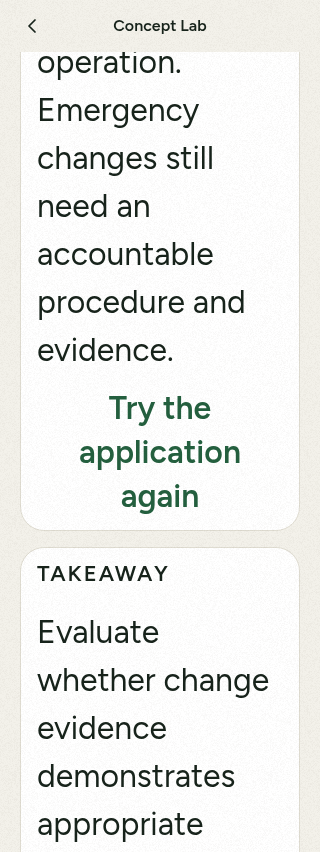
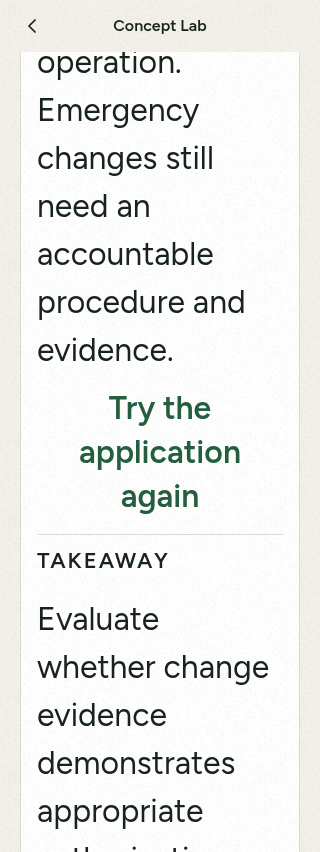
Keep each expanded lab stage in the shared topic card

Changed region(s): [[0.0625, 0.6408, 0.8438, 1.0], [0.9062, 0.6408, 0.9375, 0.6714]]

diff --git a/mobile/src/components/conceptLabExpansion.tsx b/mobile/src/components/conceptLabExpansion.tsx
@@ -17,7 +17,8 @@ import { openSessionFromStack } from '../lib/actions';
 import { space } from '../theme/tokens';
 import { useTheme } from '../theme/useTheme';
 import { Button, PushedHeader, Screen, T } from './ui';
-import { CardHead, HubCard, PageTitle } from './groveHub';
+import { CardHead, CardDivider, PageTitle } from './groveHub';
+import { TopicCard } from './topicCard';
 import { LabChoice } from './conceptLab';
 
 const stages = ['Explore', 'Experiment', 'Apply'] as const;
@@ -44,51 +45,53 @@ export function ExpansionLabScreen({ lab }: { lab: ExpansionLab }) {
     <View style={{ flexDirection: 'row', flexWrap: 'wrap', gap: space.xs, marginVertical: space.lg }}>
       {stages.map((name, i) => <Button key={name} kind="ghost" label={`${i + 1}. ${name}`} selected={stage === i} onPress={() => setStage(i)} />)}
     </View>
-    <View style={{ gap: space.lg }}>
-      <View ref={heading} accessible accessibilityRole="header" accessibilityLabel={`Part ${stage + 1} of 3. ${stages[stage]}`}><T v="title">{`Part ${stage + 1} · ${stages[stage]}`}</T></View>
-      {stage === 0 && <>
-        <T v="body">{lab.objective}</T>
-        {lab.explore.map(p => <T key={p} v="body">{p}</T>)}
-        <Panel title="Your workplace scenario"><T v="body">{lab.scenario}</T>{lab.interaction === 'authority-mapping' && <T v="label">Flawed draft assignments — correct these in Experiment</T>}<ModelPreview lab={lab} /></Panel>
-      </>}
-      {/* Keep the experiment mounted across stages so a learner can compare their decisions. */}
-      <View style={{ display: stage === 1 ? 'flex' : 'none', gap: space.lg }}>
-        <Panel title="Your challenge"><T v="body">{lab.challenge}</T></Panel>
-        <Experiment key={`${lab.id}:${attempt}`} lab={lab} />
-        <Button kind="ghost" label="Reset scenario" onPress={() => { setAttempt(n => n + 1); sayLater('Scenario reset to its starting conditions.'); }} />
+    <TopicCard testID="lab-topic-card">
+      <View style={{ gap: space.lg }}>
+        <View ref={heading} accessible accessibilityRole="header" accessibilityLabel={`Part ${stage + 1} of 3. ${stages[stage]}`}><T v="title">{`Part ${stage + 1} · ${stages[stage]}`}</T></View>
+        {stage === 0 && <>
+          <T v="body">{lab.objective}</T>
+          {lab.explore.map(p => <T key={p} v="body">{p}</T>)}
+          <Section title="Your workplace scenario"><T v="body">{lab.scenario}</T>{lab.interaction === 'authority-mapping' && <T v="label">Flawed draft assignments — correct these in Experiment</T>}<ModelPreview lab={lab} /></Section>
+        </>}
+        {/* Keep the experiment mounted across stages so a learner can compare their decisions. */}
+        <View style={{ display: stage === 1 ? 'flex' : 'none', gap: space.lg }}>
+          <Section title="Your challenge"><T v="body">{lab.challenge}</T></Section>
+          <Experiment key={`${lab.id}:${attempt}`} lab={lab} />
+          <Button kind="ghost" label="Reset scenario" onPress={() => { setAttempt(n => n + 1); sayLater('Scenario reset to its starting conditions.'); }} />
+        </View>
+        {stage === 2 && <>
+          <T v="body">{lab.apply.scenario}</T>
+          {lab.apply.options.map((option, i) => <LabChoice key={option.text} text={option.text} selected={answer === i} onPress={() => { setAnswer(i); setChecked(false); }} />)}
+          <Button label="Check reasoning" disabled={answer === null} onPress={() => { setChecked(true); if (answer !== null) sayLater(lab.apply.options[answer].feedback); }} />
+          {checked && answer !== null && <Section title={answer === lab.apply.correctIndex ? 'Reasoning supported' : 'Review the evidence'}>
+            <T v="body">{lab.apply.options[answer].feedback}</T>
+            <Button kind="ghost" label="Try the application again" onPress={() => { setAnswer(null); setChecked(false); }} />
+          </Section>}
+          <Section title="Takeaway"><T v="body">{lab.takeaway}</T><T v="meta">Lab exploration does not record a practice answer, change readiness or complete a lesson.</T></Section>
+          <T v="title" accessibilityRole="header">Keep exploring</T>
+          {lesson?.certId === lab.certId && <Button kind="secondary" label="Read the related lesson" onPress={() => router.push(`/lesson/${lab.lessonId}`)} />}
+          {note && <Button kind="secondary" label="Open the related study note" onPress={() => router.push(`/notes/subtopic/${lab.noteId}`)} />}
+          {principles.map(p => <Button key={p.id} kind="secondary" label={`Read principle: ${p.title}`} onPress={() => router.push(`/principles/${p.id}`)} />)}
+          {practice.length > 0 && <Button kind="secondary" label="Practice this concept" accessibilityHint="Optional practice using existing questions. Answers count toward progress." onPress={() => guardedStart(() => startFromIds(lab.certId, practice, lab.title), openSessionFromStack)} />}
+          {lab.interaction === 'dependency-simulation' && <Button kind="secondary" label="Explore RTO versus RPO" onPress={() => router.push('/labs/cisa-lab-rto-rpo')} />}
+          <T v="meta">{`Original KaiSip scenario. Content review: ${lab.lastReviewed}. Source references:`}</T>
+          {lab.references.map(r => <T key={r.url} v="meta">{`${r.title}\n${r.section}\n${r.url}`}</T>)}
+        </>}
+        {stage < 2 && <Button label={stage === 0 ? 'Try the experiment' : 'Apply your judgment'} onPress={() => setStage(stage + 1)} />}
       </View>
-      {stage === 2 && <>
-        <T v="body">{lab.apply.scenario}</T>
-        {lab.apply.options.map((option, i) => <LabChoice key={option.text} text={option.text} selected={answer === i} onPress={() => { setAnswer(i); setChecked(false); }} />)}
-        <Button label="Check reasoning" disabled={answer === null} onPress={() => { setChecked(true); if (answer !== null) sayLater(lab.apply.options[answer].feedback); }} />
-        {checked && answer !== null && <Panel title={answer === lab.apply.correctIndex ? 'Reasoning supported' : 'Review the evidence'}>
-          <T v="body">{lab.apply.options[answer].feedback}</T>
-          <Button kind="ghost" label="Try the application again" onPress={() => { setAnswer(null); setChecked(false); }} />
-        </Panel>}
-        <Panel title="Takeaway"><T v="body">{lab.takeaway}</T><T v="meta">Lab exploration does not record a practice answer, change readiness or complete a lesson.</T></Panel>
-        <T v="title" accessibilityRole="header">Keep exploring</T>
-        {lesson?.certId === lab.certId && <Button kind="secondary" label="Read the related lesson" onPress={() => router.push(`/lesson/${lab.lessonId}`)} />}
-        {note && <Button kind="secondary" label="Open the related study note" onPress={() => router.push(`/notes/subtopic/${lab.noteId}`)} />}
-        {principles.map(p => <Button key={p.id} kind="secondary" label={`Read principle: ${p.title}`} onPress={() => router.push(`/principles/${p.id}`)} />)}
-        {practice.length > 0 && <Button kind="secondary" label="Practice this concept" accessibilityHint="Optional practice using existing questions. Answers count toward progress." onPress={() => guardedStart(() => startFromIds(lab.certId, practice, lab.title), openSessionFromStack)} />}
-        {lab.interaction === 'dependency-simulation' && <Button kind="secondary" label="Explore RTO versus RPO" onPress={() => router.push('/labs/cisa-lab-rto-rpo')} />}
-        <T v="meta">{`Original KaiSip scenario. Content review: ${lab.lastReviewed}. Source references:`}</T>
-        {lab.references.map(r => <T key={r.url} v="meta">{`${r.title}\n${r.section}\n${r.url}`}</T>)}
-      </>}
-      {stage < 2 && <Button label={stage === 0 ? 'Try the experiment' : 'Apply your judgment'} onPress={() => setStage(stage + 1)} />}
-    </View>
+    </TopicCard>
   </Screen>;
 }
 
-function Panel({ title, children }: { title: string; children: ReactNode }) {
-  return <HubCard style={{ gap: space.md, paddingBottom: space.md }}><CardHead title={title} />{children}</HubCard>;
+function Section({ title, children }: { title: string; children: ReactNode }) {
+  return <View style={{ gap: space.md }}><CardDivider /><CardHead title={title} />{children}</View>;
 }
 function Feedback({ summary, findings }: { summary: string; findings: readonly string[] }) {
-  return <Panel title="What your decisions change">
+  return <Section title="What your decisions change">
     <View testID="expansion-outcome" accessibilityLiveRegion="polite" style={stack}><T v="label">{summary}</T>
       {findings.map((f, i) => <T key={`${i}:${f}`} v="body">{f}</T>)}
     </View>
-  </Panel>;
+  </Section>;
 }
 function NumberControl({ label, value, min = 0, max, step = 1, onChange, unit = '' }: { label: string; value: number; min?: number; max: number; step?: number; unit?: string; onChange: (value: number) => void }) {
   return <View style={stack}>
@@ -138,11 +141,11 @@ function Roles({ config }: { config: RoleConfig }) {
   const result = evaluateRoles(assignments, review, config);
   return <View style={{ gap: space.lg }}>
     <Feedback {...result} />
-    <Panel title="Assign purchasing duties">
+    <Section title="Assign purchasing duties">
       {config.duties.map((d, i) => <Assignment key={d} label={d} choices={config.people} value={assignments[i]} onChange={value => setAssignments(a => a.map((old, j) => j === i ? value : old))} />)}
       <Toggle label="Add an independent detective review" value={review} onChange={setReview} />
       <T v="meta">The assigned transaction reviewer examines exception reports and supporting evidence. To be independent, that person must have no other purchasing duty. Detective review may reduce exposure; it does not prevent the transaction.</T>
-    </Panel>
+    </Section>
   </View>;
 }
 function Risk({ config }: { config: RiskConfig }) {
@@ -153,23 +156,23 @@ function Risk({ config }: { config: RiskConfig }) {
   const result = evaluateRisk(areas, selected, budget);
   return <View style={{ gap: space.lg }}>
     <Feedback {...result} />
-    <Panel title="Your audit resources"><NumberControl label="Available audit hours" value={budget} max={200} step={10} unit="hours" onChange={setBudget} /><T v="meta">Educational scoring model: compare assumptions and mandatory coverage as well as scores. Selection proposes a plan; the charter-designated authority must approve the plan.</T><T v="label">{`${result.hours} / ${budget} hours allocated`}</T></Panel>
-    {areas.map((a, i) => <Panel key={a.name} title={a.name}>
+    <Section title="Your audit resources"><NumberControl label="Available audit hours" value={budget} max={200} step={10} unit="hours" onChange={setBudget} /><T v="meta">Educational scoring model: compare assumptions and mandatory coverage as well as scores. Selection proposes a plan; the charter-designated authority must approve the plan.</T><T v="label">{`${result.hours} / ${budget} hours allocated`}</T></Section>
+    {areas.map((a, i) => <Section key={a.name} title={a.name}>
       <T v="label">{`Educational priority: ${result.scores[i]} · Cost: ${a.hours} hours`}</T>
       <Toggle label={`Include ${a.name}`} value={selected[i]} onChange={value => setSelected(s => s.map((old, j) => j === i ? value : old))} />
       <Button kind="ghost" label={`Adjust ${a.name} assumptions`} expanded={editing === i} onPress={() => setEditing(old => old === i ? null : i)} />
       {editing === i && (['impact', 'likelihood', 'control', 'incidents'] as const).map(key => <NumberControl key={key} label={`${a.name} ${key === 'control' ? 'control effectiveness' : key === 'incidents' ? 'prior incidents' : key === 'impact' ? 'business impact' : 'threat likelihood'}`} value={a[key]} min={key === 'incidents' || key === 'control' ? 0 : 1} max={key === 'control' ? 4 : 5} onChange={value => setAreas(old => old.map((area, j) => j === i ? { ...area, [key]: value } : area))} />)}
       <Toggle label={`Mandatory coverage for ${a.name}`} value={a.mandatory} onChange={value => setAreas(old => old.map((area, j) => j === i ? { ...area, mandatory: value } : area))} />
-    </Panel>)}
+    </Section>)}
   </View>;
 }
 function Authority({ config }: { config: AuthorityConfig }) {
   const [assignments, setAssignments] = useState(() => [...config.initialAssignments]);
   const result = evaluateAuthority(assignments, config);
-  return <View style={{ gap: space.lg }}><Feedback {...result} /><Panel title="Map decision authority">
+  return <View style={{ gap: space.lg }}><Feedback {...result} /><Section title="Map decision authority">
     <T v="meta">Use this fictional company’s stated governance structure. Other organizations may delegate authority differently.</T>
     {config.decisions.map((d, i) => <Assignment key={d.label} label={d.label} choices={config.roles} value={assignments[i]} onChange={value => setAssignments(a => a.map((old, j) => j === i ? value : old))} />)}
-  </Panel></View>;
+  </Section></View>;
 }
 function Workflow({ config }: { config: WorkflowConfig }) {
   const [order, setOrder] = useState(() => [...config.initialOrder]);
@@ -180,8 +183,8 @@ function Workflow({ config }: { config: WorkflowConfig }) {
   }
   return <View style={{ gap: space.lg }}>
     <Feedback {...result} />
-    <Panel title="Choose the change procedure"><Toggle label="Use the documented emergency procedure" value={emergency} onChange={setEmergency} /><T v="meta">Move steps with the buttons; dragging is not required. Emergency handling can defer selected normal steps, with appropriate emergency authorization and subsequent review.</T></Panel>
-    <Panel title="Enabled workflow">
+    <Section title="Choose the change procedure"><Toggle label="Use the documented emergency procedure" value={emergency} onChange={setEmergency} /><T v="meta">Move steps with the buttons; dragging is not required. Emergency handling can defer selected normal steps, with appropriate emergency authorization and subsequent review.</T></Section>
+    <Section title="Enabled workflow">
       {order.map((id, i) => <View key={id} style={stack}>
         <T v="label">{`${i + 1}. ${config.steps[id]}`}</T>
         <View style={{ flexDirection: 'row', flexWrap: 'wrap', gap: space.sm }}>
@@ -192,7 +195,7 @@ function Workflow({ config }: { config: WorkflowConfig }) {
       </View>)}
       {!order.length && <T v="body">No steps enabled. Add a step below.</T>}
       {config.steps.map((step, i) => !order.includes(i) && <Button key={step} kind="secondary" label={`Add ${step}`} onPress={() => setOrder(old => [...old, i])} />)}
-    </Panel>
+    </Section>
   </View>;
 }
 function Dependencies({ config }: { config: DependencyConfig }) {
@@ -203,21 +206,21 @@ function Dependencies({ config }: { config: DependencyConfig }) {
   const result = evaluateDependencies(processes, restored, budget, duration, config);
   return <View style={{ gap: space.lg }}>
     <Feedback {...result} />
-    <Panel title="Illustrative recovery priority"><T v="body">{result.priorityOrder.map((index, rank) => `${rank + 1}. ${processes[index].name}`).join("\n")}</T><T v="meta">Criticality first, then modeled unserved financial exposure. Document business judgment, safety obligations and shared dependencies before deciding.</T></Panel>
-    <Panel title="Outage and recovery resources">
+    <Section title="Illustrative recovery priority"><T v="body">{result.priorityOrder.map((index, rank) => `${rank + 1}. ${processes[index].name}`).join("\n")}</T><T v="meta">Criticality first, then modeled unserved financial exposure. Document business judgment, safety obligations and shared dependencies before deciding.</T></Section>
+    <Section title="Outage and recovery resources">
       <NumberControl label="Interruption duration" value={duration} min={1} max={24} unit="hours" onChange={setDuration} />
       <NumberControl label="Recovery resource budget" value={budget} max={20} unit="units" onChange={setBudget} />
       <T v="label">{`${result.cost} / ${budget} resource units selected`}</T>
       <T v="meta">Compare a prospective period of disruption. A recovered service has zero unserved exposure for that period; recovery does not erase losses already incurred.</T>
       {config.systems.map((s, i) => <Toggle key={s.name} label={`Recover ${s.name} (${s.cost} units)`} value={restored[i]} onChange={value => setRestored(old => old.map((v, j) => j === i ? value : v))} />)}
-    </Panel>
-    {processes.map((p, i) => <Panel key={p.name} title={p.name}>
+    </Section>
+    {processes.map((p, i) => <Section key={p.name} title={p.name}>
       <T v="label">{result.available[i] ? 'Dependencies ready' : 'Waiting for dependencies'}</T>
       <T v="body">{`Prospective unserved exposure: $${result.impacts[i].toLocaleString()} for the next ${duration} hours under this recovery selection.`}</T>
       <NumberControl label={`${p.name} operational criticality`} value={p.criticality} min={1} max={5} onChange={value => setProcesses(old => old.map((v, j) => j === i ? { ...v, criticality: value } : v))} />
       <NumberControl label={`${p.name} hourly financial impact`} value={p.hourlyLoss} max={10000} step={500} unit="dollars" onChange={value => setProcesses(old => old.map((v, j) => j === i ? { ...v, hourlyLoss: value } : v))} />
       <T v="meta">Required supporting systems (keep at least one; all selected dependencies must be restored):</T>
       {config.systems.map((s, index) => <Toggle key={s.name} label={`${p.name} needs ${s.name}`} value={p.dependencies.includes(index)} onChange={value => { if (!value && p.dependencies.length === 1) { sayLater('Keep at least one supporting system. Add another dependency before removing this one.'); return; } setProcesses(old => old.map((v, j) => j === i ? { ...v, dependencies: value ? [...v.dependencies, index] : v.dependencies.filter(d => d !== index) } : v)); }} />)}
-    </Panel>)}
+    </Section>)}
   </View>;
 }

diff --git a/mobile/src/__tests__/conceptLabExpansion-screens.test.tsx b/mobile/src/__tests__/conceptLabExpansion-screens.test.tsx
@@ -3,6 +3,8 @@ import { act, create, type ReactTestInstance, type ReactTestRenderer } from 'rea
 import { Dimensions } from 'react-native';
 import { router } from 'expo-router';
 import LabDetail from '../app/labs/[id]';
+import { TopicCard } from '../components/topicCard';
+import { HubCard } from '../components/groveHub';
 import { useSettings } from '../store/settings';
 import { useProgress } from '../store/progress';
 import { useSession } from '../store/session';
@@ -125,4 +127,26 @@ it('dependency controls keep at least one supporting system and explain the cons
   for (const system of process.dependencies) press(`✓ ${process.name} needs ${lab.config.systems[system].name}`);
   expect(text()).toMatch(/keep at least one/i);
   expect(outcome().length).toBeGreaterThan(20);
+});
+
+
+it.each(expansionLabs)('$id keeps every stage and its feedback in one shared topic surface', lab => {
+  mockParams = { id: lab.id }; mount(<LabDetail />);
+  const assertSurface = () => {
+    expect(r!.root.findAllByType(TopicCard)).toHaveLength(1);
+    expect(r!.root.findAllByType(HubCard)).toHaveLength(0);
+    const card = r!.root.findByType(TopicCard);
+    expect(card.props.testID).toBe('lab-topic-card');
+    // The surface must not group its interactive descendants into one accessibility element.
+    expect(card.props.accessible).not.toBe(true);
+    expect(card.props.accessibilityRole).toBeUndefined();
+    return card;
+  };
+  const surface = assertSurface();
+  for (const label of ['2. Experiment', '3. Apply', '1. Explore']) {
+    press(label); expect(assertSurface()).toBe(surface);
+  }
+  press('3. Apply'); press(lab.apply.options[lab.apply.correctIndex].text); press('Check reasoning');
+  expect(textOf(assertSurface())).toContain(lab.apply.options[lab.apply.correctIndex].feedback);
+  press('Try the application again'); assertSurface();
 });

diff --git a/mobile/src/components/topicCard.tsx b/mobile/src/components/topicCard.tsx
@@ -1,0 +1,31 @@
+import { createContext, useContext, useState } from 'react';
+import { View, useWindowDimensions, type ViewProps } from 'react-native';
+import { grovePlate } from '../theme/grove';
+import { space } from '../theme/tokens';
+import { useTheme } from '../theme/useTheme';
+import { groveCard } from './ui';
+
+export const TOPIC_CARD_INSET = grovePlate.pad + grovePlate.edge;
+const TopicWidth = createContext<number | undefined>(undefined);
+
+/** Figures need the reading surface's actual width, not the whole screen. */
+export function useTopicCardWidth() {
+  return useContext(TopicWidth);
+}
+
+/** One topic, question or lesson scene, with its related reading and actions. */
+export function TopicCard({ children, style, ...props }: ViewProps) {
+  const { c } = useTheme();
+  const { width } = useWindowDimensions();
+  const [measuredWidth, setMeasuredWidth] = useState<number>();
+  const fallback = Math.max(1, Math.min(width - space.gutter * 2, 560) - TOPIC_CARD_INSET * 2);
+  return (
+    <View {...props} style={[groveCard(c), { padding: grovePlate.pad }, style]}>
+      <View onLayout={({ nativeEvent }) => {
+        if (nativeEvent.layout.width > 0) setMeasuredWidth(nativeEvent.layout.width);
+      }}>
+        <TopicWidth.Provider value={measuredWidth ?? fallback}>{children}</TopicWidth.Provider>
+      </View>
+    </View>
+  );
+}

diff --git a/docs/mobile/concept-lab-expansion/REVIEW.md b/docs/mobile/concept-lab-expansion/REVIEW.md
@@ -16,15 +16,15 @@ Related practice uses the existing guarded session starter, so optional real pra
 
 ## Validation record
 
-- Full `npm run check` passed: typecheck, ESLint, 362 Jest suites / 7,173 passed tests / 2 existing skips, and generated web-bundle checks. Aggregate Jest runtime was 301.643 seconds.
-- Focused pilot/expansion regression passed 89 tests initially. Final expanded content/UI suites passed 25 tests; engine/content specialist rerun passed 11 tests. See [specialist review](SPECIALIST_REVIEW.md).
+- Full `npm run check` passed: typecheck, ESLint, 362 Jest suites / 7,178 passed tests / 2 existing skips, and generated web-bundle checks. Aggregate Jest runtime was 270.707 seconds.
+- Final focused pilot/expansion regression passed 101 tests, including the topic-card layout checks. The independent screen rerun passed 24 tests; earlier engine/content specialist checks passed 11 tests. See [specialist review](SPECIALIST_REVIEW.md).
 - Final Android export passed, along with OFF-cloud bundle, release-channel, shared-source and size guards. Bundle: 11.40 MB / 14 MB; CISA content: 4.68 MB / 6 MB.
 - Repository health passed with a writable temporary npm cache. An initial attempt failed because npm tried to create its cache under the unavailable home path; no source change was needed. Expo telemetry was disabled to avoid the same home-directory issue during lint.
 - Browser QA passed 20 combinations (five labs × light/dark × normal/320px approximate 200% text), covering offline interaction, reset, retry and progress isolation. Zero browser page errors. Existing RTO/RPO light/dark browser regression passed, including drag/tap bounds and vertical-scroll protection.
 - [Screenshots and matrix](screenshots/README.md): 22 selected captures committed; 80 expansion captures plus 16 pilot captures generated locally. Visual inspection confirmed readable wrapped controls and scrollable enlarged text.
 - Public source and relevant study-link review is recorded in [SOURCES.md](SOURCES.md). Review corrected emergency testing order, governance-preview labeling, approval-authority wording, screen-reader value feedback, practice relevance and prospective BIA exposure wording.
 
-App-size/performance: approximately 46 KB of new uncompressed production TypeScript across content, engine and renderer, no new binary assets/dependencies. The measured final Android JavaScript bundle is 11.40 MB; this is not an APK/AAB size delta. Small bounded arrays are evaluated on control changes/render; no animation loops or network requests were added. Physical-device startup, frame timing and low-end responsiveness were not benchmarked.
+App-size/performance: approximately 47 KB of new uncompressed production TypeScript across content, engine and renderer, no new binary assets/dependencies. The measured final Android JavaScript bundle is 11.40 MB; this is not an APK/AAB size delta. Small bounded arrays are evaluated on control changes/render; no animation loops or network requests were added. Physical-device startup, frame timing and low-end responsiveness were not benchmarked.
 
 Native Android TalkBack, native 200% font scaling, VoiceOver, and lower-end device performance require a native device/emulator. Browser enlarged text is an approximation, not a substitute. No adb is available in this cloud environment.
 
@@ -48,6 +48,7 @@ Create a separate branch from the reviewed batch-1 baseline (stacked explicitly 
 - `mobile/src/content/labs/expansion.ts`
 - `mobile/src/engine/conceptLabExpansion.ts`
 - `mobile/src/components/conceptLabExpansion.tsx`
+- `mobile/src/components/topicCard.tsx`
 - `mobile/src/app/labs/[id].tsx`
 - `mobile/src/app/labs/index.tsx`
 - `mobile/src/app/(tabs)/learn.tsx`
@@ -61,3 +62,15 @@ Create a separate branch from the reviewed batch-1 baseline (stacked explicitly 
 - `mobile/scripts/screenshots/shoot_lab_expansion.mjs`
 
 Review documents and selected screenshots are under `docs/mobile/concept-lab-expansion/`.
+
+## Topic-card reconciliation after development review
+
+The initial integration tests at expansion `adb4d5b` and topic cards `3ce4bec` verified behavior and merge compatibility, but did **not** establish that all new labs inherited the topic-card layout. Development review correctly found that the expansion renderer still used separate nested `HubCard` sections while #242 changed only the recovery pilot route.
+
+The expansion now uses the exact shared `TopicCard` primitive from #242 (`3ce4beca2c8d836a10583697c35395dadc09bf44`), with one reading surface containing the current stage's explanation, controls, feedback and actions. Internal sections use dividers rather than nested cards. The component is copied byte-for-byte so #244 remains independently buildable and its eventual combination with #242 has identical shared source; no other #242 implementation, release setting or branch is brought into this PR.
+
+Regression coverage explicitly checks the shared surface in every stage of all five new labs, in addition to existing state preservation, reset, feedback and progress-isolation checks. Screenshots are refreshed for this layout. Native accessibility/performance remains pending as documented in `NATIVE_ACCEPTANCE.md`.
+
+Reconciliation validation: full `npm run check` passed **362 suites / 7,178 tests**, with 2 existing skips; typecheck, lint and generated web-asset checks passed. Focused lab checks passed 101 tests. Android export and cloud-OFF/size guards passed (11.40 MB / 14 MB; CISA 4.68 MB / 6 MB).
+
+A fresh temporary combination with topic cards `3ce4bec`, Today `e18cba4` and Mistake DNA `a8ad2a0` passed typecheck and **21 suites / 353 tests** (tree `8f7dc1d7724770d357a0ca62119a92ec6484c0e5`). All code combined automatically; only the known release-tracker note conflict required retaining both notes in the temporary checkout. No actual PR branches were merged. The earlier combined screenshots/tree were behavior evidence for the old layout and are not presented as evidence of this visual correction.

diff --git a/docs/mobile/concept-lab-expansion/screenshots/README.md b/docs/mobile/concept-lab-expansion/screenshots/README.md
@@ -1,5 +1,7 @@
 # Concept Lab expansion screenshots
 
+Refreshed after the TopicCard alignment: each expansion stage uses the same shared TopicCard reading surface, with section dividers instead of nested panel cards.
+
 Captured from the actual Expo web export with synthetic local learner data, Chromium, reduced motion, and network disabled during each lab's interaction.
 
 Normal screenshots use a 393 × 852 viewport. The `2x` captures use a 320 × 852 viewport and CSS text enlargement as an approximation of 200% text. These are browser screenshots, not native Android accessibility evidence.
@@ -14,12 +16,14 @@ Each lab has light/dark experiment controls plus light/dark enlarged application
 | Control a software change | [View](cisa-lab-change-controls-experiment-controls-light-1x.png) | [View](cisa-lab-change-controls-experiment-controls-dark-1x.png) | [View](cisa-lab-change-controls-apply-feedback-light-2x.png) | [View](cisa-lab-change-controls-apply-feedback-dark-2x.png) |
 | Recover business dependencies | [View](cisa-lab-business-impact-experiment-controls-light-1x.png) | [View](cisa-lab-business-impact-experiment-controls-dark-1x.png) | [View](cisa-lab-business-impact-apply-feedback-light-2x.png) | [View](cisa-lab-business-impact-apply-feedback-dark-2x.png) |
 
-Reproduce: `SHOTS=lab-expansion npm run shots -- /tmp/kaisip-lab-expansion-shots` from `mobile/`. Set `PLAYWRIGHT_REQUIRE_FROM` and `CHROME_PATH` for the host. This also executes the existing RTO/RPO browser regression.
+Reproduce: `SHOTS=lab-expansion npm run shots -- /tmp/kaisip-topic-lab-verified-shots` from `mobile/`. Set `PLAYWRIGHT_REQUIRE_FROM` and `CHROME_PATH` for the host. This also executes the existing RTO/RPO browser regression.
 
 Additional proposed plan: [80-hour plan, light](risk-plan-selected-light.png) · [80-hour plan, dark](risk-plan-selected-dark.png). These show Payroll and Online orders selected under the initial budget; they are a browser capture of actual controls, not a prescribed universal audit plan.
 
-Automated expansion results: [20 scenario matrix](results.json). Each includes offline manipulation, reset, application retry and unchanged persisted progress. Zero browser page errors were recorded.
+Automated expansion results: [20 scenario matrix](results.json). Each includes offline manipulation, reset, application retry and unchanged persisted progress. The final immutable harness also checks exactly one topic surface at each of four captured stages (80 browser assertions); all 20 results explicitly record `topicSurface: single shared card`. Zero browser page errors were recorded.
 
-The same final export also passed the existing RTO/RPO browser regression in light/dark: Learn/catalog navigation, deliberate tap/drag and boundaries, vertical-scroll protection, reset, application feedback, optional practice presence, note link, and approximate 200% reduced-motion capture. Zero page errors. Those 16 pilot screenshots remain in `/tmp/kaisip-lab-expansion-shots/`.
+The same final export also passed the existing RTO/RPO browser regression in light/dark: Learn/catalog navigation, deliberate tap/drag and boundaries, vertical-scroll protection, reset, application feedback, optional practice presence, note link, and approximate 200% reduced-motion capture. Zero page errors. Those 16 pilot screenshots remain in `/tmp/kaisip-topic-lab-verified-shots/`.
 
 Native TalkBack/VoiceOver speech, Android system font scaling, and low-end physical-device responsiveness were not tested in this cloud runtime.
+
+[Source SHA256 fingerprints](source-sha256.txt) were recorded at launch and verified unchanged after the browser run. They identify the executed screenshot harness, expansion component and shared TopicCard.

diff --git a/docs/mobile/concept-lab-expansion/SPECIALIST_REVIEW.md b/docs/mobile/concept-lab-expansion/SPECIALIST_REVIEW.md
@@ -30,3 +30,9 @@ npm test -- --runInBand src/__tests__/conceptLabExpansion.test.ts src/__tests__/
 Both the initial corrected-code run and final-source rerun passed: **2 suites, 11 tests**. Final local output: `/tmp/specialist-lab-final-tests.log`.
 
 **No further blocking code/content finding in the reviewed scope. Conditional acceptance for a draft PR:** require the implementation team's full automated gates and visual QA, plus owner review. Native Android TalkBack, native 200% font scale, VoiceOver and lower-end device performance were not tested by this reviewer; browser or source review cannot establish those outcomes. This review authorizes no merge, deployment, OTA publication or production package upload.
+
+## Topic-card design correction
+
+Development review correctly identified that the earlier combined checks did not prove the new labs inherited #242's layout. The expansion renderer was separate from the pilot route. This is now corrected using the exact `TopicCard` component from #242 head `3ce4bec` (blob `151d7157114c98b21a3934e65b498ddd47ca2227`). Each expansion stage is one continuous surface; internal sections use dividers and no nested `HubCard`s.
+
+Independent source review verified stable state/reset/heading and scroll refs, separate accessible controls, and byte-identical shared source. The independent screen suite passed 24 tests. Visual inspection covered light Experiment/Apply, light enlarged controls, and dark BIA/Apply captures: consistent surfaces, readable wrapping, no visible clipping in the inspected views. No design-parity blocker remains. This supersedes the earlier merge-compatibility-only assessment; native accessibility remains unverified.
